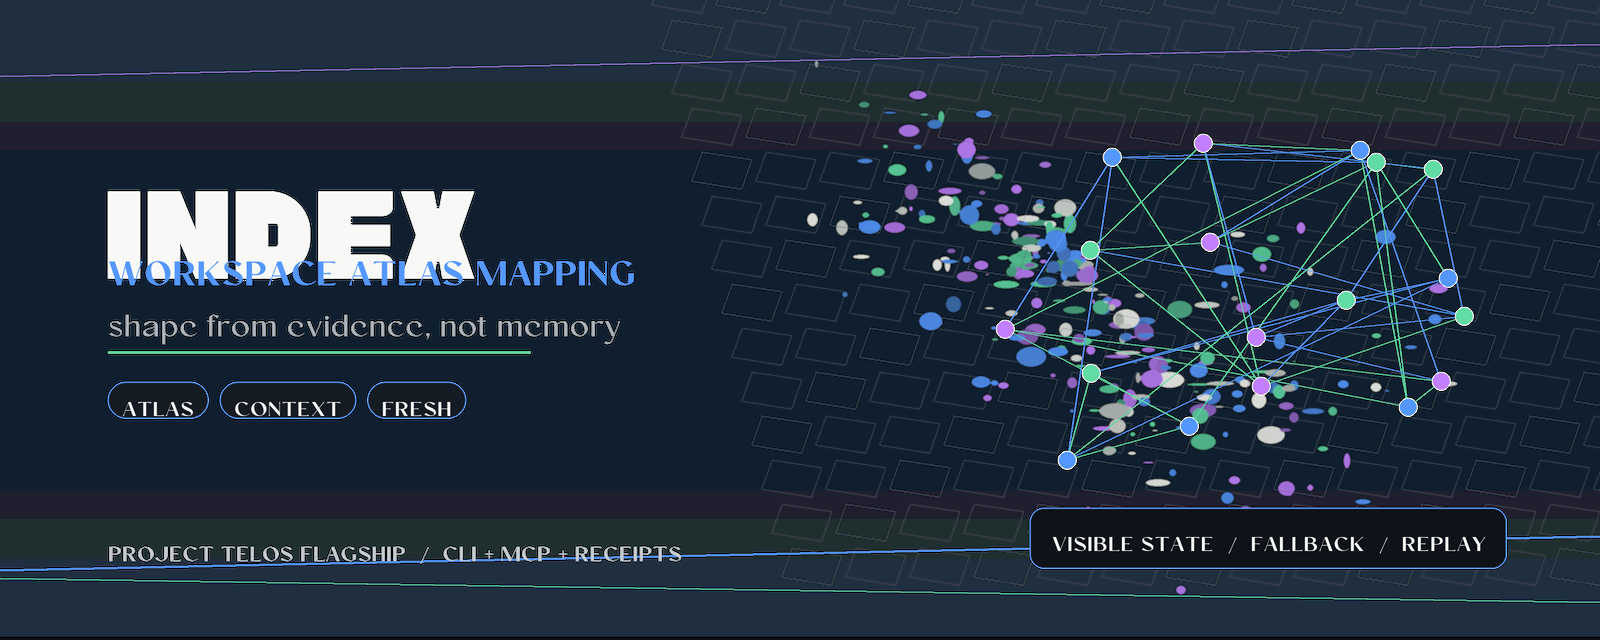
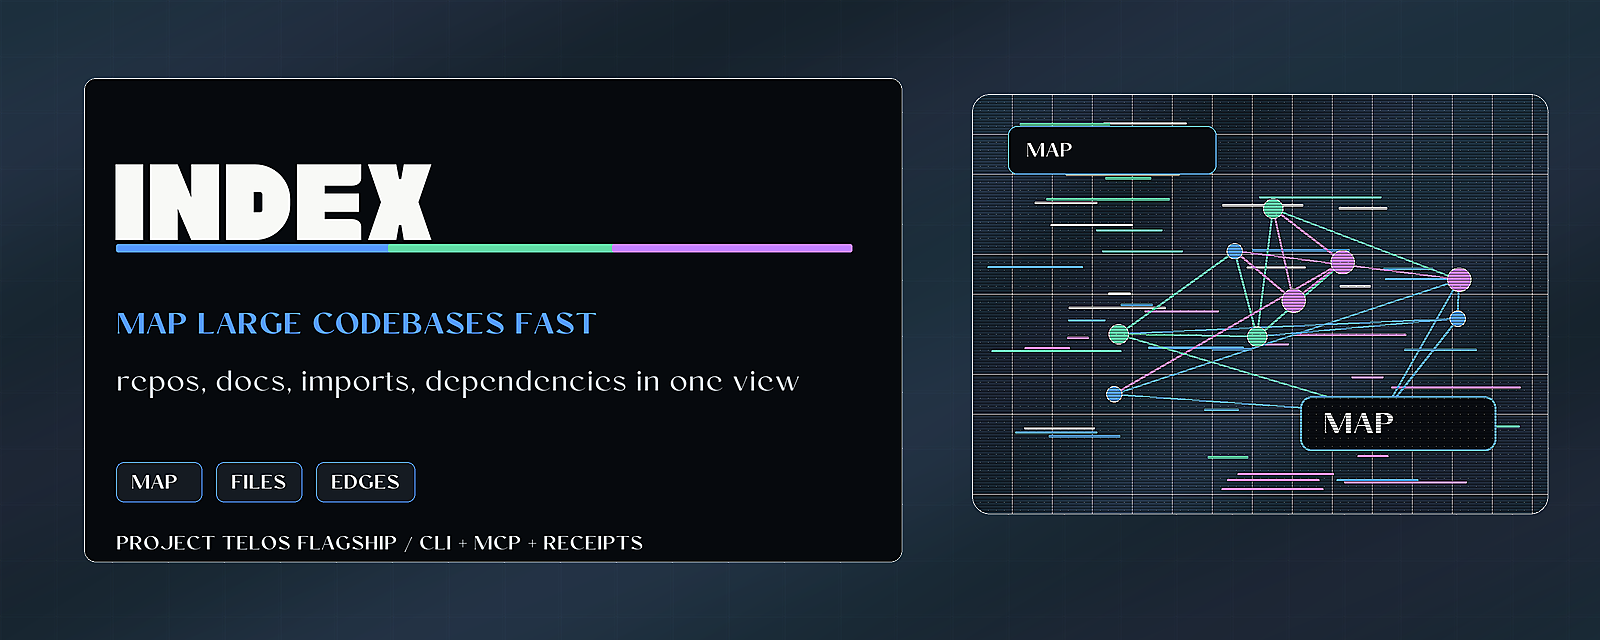
Improve flagship presentation assets

diff --git a/docs/brand/README.md b/docs/brand/README.md
@@ -1,13 +1,15 @@
 # Index Brand Assets
 
-The README hero image in this folder was refreshed on 2026-06-28 as part of the Project Telos rendering dogfood pass.
+The README hero image in this folder was refreshed on 2026-06-29 as part of the Project Telos rendering dogfood pass.
 
 ## Rendering Receipt
 
 - Source contract: `telos.rendering.research` in the Telos repository.
-- Visual research lane: Gaussian-splatting fields, clustered-forward lighting grids, visible state overlays, and receipt-first UI composition.
+- Renderer: `project-telos.brand-render/v2`, maintained in `telos/tools/render_flagship_heroes.py`.
+- Visual research lane: Gaussian-splatting fields, clustered-forward lighting grids, visible state overlays, retro CGI texture, dithering, and receipt-first UI composition.
+- Critique lane: `r/design`, `r/design_critiques`, and `r/posterdesign` are used as non-evidentiary presentation references for hierarchy, focal control, poster readability, and effect restraint.
 - Product role: workspace atlas mapping.
 - Tool-specific motif: graph nodes and context edges.
 - Typography: rendered locally from the operator-owned Kilon and Conso font packages. The public repository carries only the exported artwork, not the purchased font files.
-- Accessibility floor: high-contrast foreground text, non-color-only status labels, and static PNG fallback for GitHub and low-capability hosts.
+- Accessibility floor: high-contrast foreground text, a solid no-texture text field, non-color-only status labels, and static PNG fallback for GitHub and low-capability hosts.
 - Provenance boundary: Reddit and community links are treated as non-evidentiary source leads; implementation claims resolve through lawful papers, standards, official repositories, and repeatable local checks.

diff --git a/README.md b/README.md
@@ -1,11 +1,11 @@
 <p align="center">
-  <img src="docs/brand/index-hero.png" alt="Index, a Project Telos flagship for workspace atlas mapping">
+  <img src="docs/brand/index-hero.png" alt="Index, map large codebases and docs for agents and teams">
 </p>
 <!-- Project mark: docs/brand/index-mark.svg -->
 
 # index
 
-> Map a workspace from evidence an agent can re-check.
+> Map large workspaces so people and agents can find the right context.
 
 [Project Telos](https://harperz9.github.io) | [gather](https://github.com/HarperZ9/gather) | [crucible](https://github.com/HarperZ9/crucible) | [index](https://github.com/HarperZ9/index) | [forum](https://github.com/HarperZ9/forum) | [telos](https://github.com/HarperZ9/telos)
 